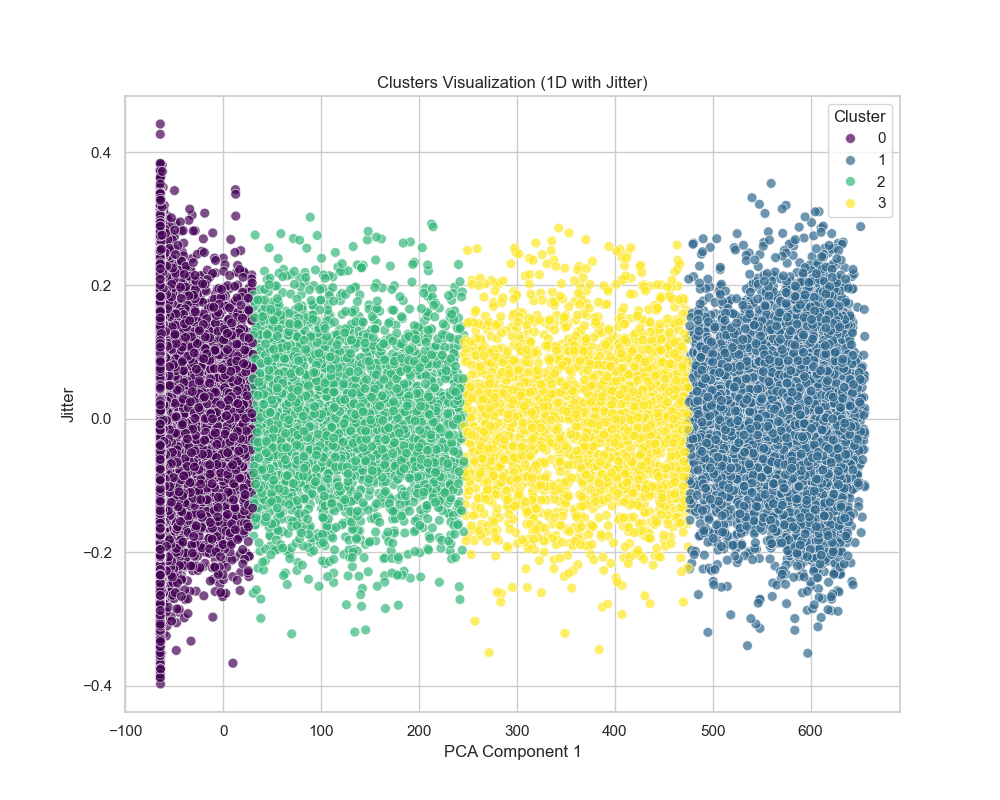
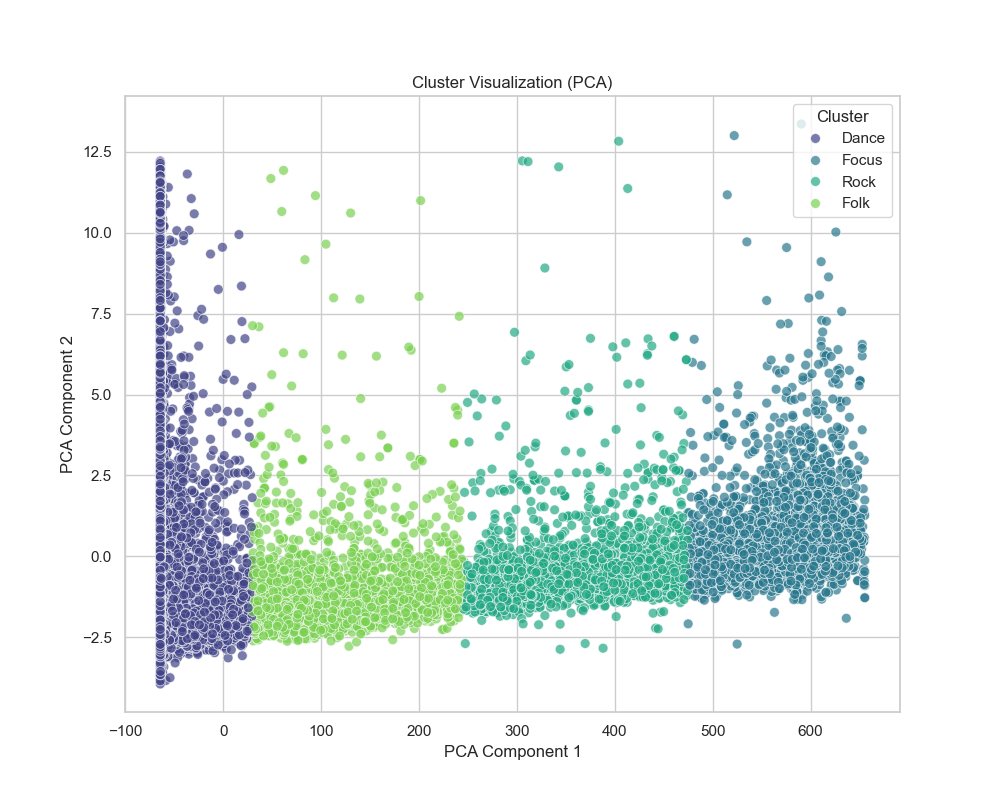
add documents

diff --git a/generate_report_assets.py b/generate_report_assets.py
@@ -1,0 +1,98 @@
+
+import pandas as pd
+import numpy as np
+import matplotlib.pyplot as plt
+import seaborn as sns
+from sklearn.preprocessing import StandardScaler, RobustScaler
+from sklearn.cluster import KMeans
+from sklearn.decomposition import PCA
+from sklearn.metrics import silhouette_score, davies_bouldin_score
+import os
+
+# Set aesthetic style
+sns.set(style="whitegrid")
+
+def load_and_preprocess():
+    url = "https://raw.githubusercontent.com/surya-devapp/datasets/main/projectdatasets/single_genre_artists.csv"
+    print(f"Loading data from {url}...")
+    df = pd.read_csv(url)
+    
+    feature_cols = [
+        'danceability', 'energy', 'loudness', 'speechiness', 'acousticness', 
+        'instrumentalness', 'liveness', 'valence', 'tempo', 'duration_ms'
+    ]
+    
+    # Missing cols check skipped for brevity, assuming standard dataset
+    df_clean = df.dropna(subset=feature_cols).copy()
+    
+    # Log Transform
+    skewed_features = ['speechiness', 'liveness', 'instrumentalness', 'duration_ms']
+    for col in skewed_features:
+        if col in df_clean.columns:
+            df_clean[col] = np.log1p(df_clean[col])
+
+    X = df_clean[feature_cols].copy()
+    scaler = RobustScaler(unit_variance=True)
+    X_scaled = scaler.fit_transform(X)
+    
+    return df_clean, X_scaled, feature_cols
+
+def generate_assets():
+    df, X_scaled, feature_cols = load_and_preprocess()
+    
+    # PCA
+    pca = PCA(n_components=2)
+    X_pca = pca.fit_transform(X_scaled)
+    
+    # KMeans K=4
+    k = 4
+    kmeans = KMeans(n_clusters=k, random_state=42, n_init=10)
+    cluster_labels = kmeans.fit_predict(X_scaled)
+    
+    df['cluster'] = cluster_labels
+    cluster_names = {
+        0: "Dance",
+        1: "Focus",
+        2: "Rock",
+        3: "Folk"
+    }
+    df['cluster_label'] = df['cluster'].map(cluster_names)
+    
+    # 1. PCA Scatter Plot
+    plt.figure(figsize=(10, 8))
+    sns.scatterplot(x=X_pca[:, 0], y=X_pca[:, 1], hue=df['cluster_label'], palette='viridis', s=50, alpha=0.7)
+    plt.title('Cluster Visualization (PCA)')
+    plt.xlabel('PCA Component 1')
+    plt.ylabel('PCA Component 2')
+    plt.legend(title='Cluster')
+    plt.savefig('cluster_visualization_pca.png')
+    plt.close()
+    print("Saved cluster_visualization_pca.png")
+    
+    # 2. Heatmap
+    plt.figure(figsize=(12, 6))
+    means = df.groupby('cluster_label')[feature_cols].mean()
+    sns.heatmap(means.T, cmap='viridis', annot=True, fmt='.2f')
+    plt.title('Feature Heatmap across Clusters')
+    plt.tight_layout()
+    plt.savefig('cluster_feature_heatmap.png')
+    plt.close()
+    print("Saved cluster_feature_heatmap.png")
+    
+    # 3. Bar Chart (Means)
+    means_melted = means.reset_index().melt(id_vars='cluster_label', var_name='Feature', value_name='Mean Value')
+    plt.figure(figsize=(14, 7))
+    sns.barplot(data=means_melted, x='Feature', y='Mean Value', hue='cluster_label', palette='viridis')
+    plt.title("Average Feature Values by Cluster")
+    plt.xticks(rotation=45)
+    plt.tight_layout()
+    plt.savefig('cluster_feature_barchart.png')
+    plt.close()
+    print("Saved cluster_feature_barchart.png")
+
+    # 4. Save Profile CSV
+    means.to_csv('cluster_profile.csv')
+    print("Saved cluster_profile.csv")
+
+if __name__ == "__main__":
+    generate_assets()

diff --git a/clustering_model.py b/clustering_model.py
@@ -280,6 +280,18 @@ def main():
     # 5. Clustering (KMeans)
     df_clustered, kmeans_model, metrics_kmeans = perform_clustering(df_clean, X_pca, k)
     
+    # Map Cluster Names
+    cluster_names = {
+        0: "Dance",
+        1: "Focus",
+        2: "Rock",
+        3: "Folk"
+    }
+    # Ensure cluster column is int for mapping
+    df_clustered['cluster'] = df_clustered['cluster'].astype(int)
+    df_clustered['cluster_label'] = df_clustered['cluster'].map(cluster_names)
+
+    
     # SAVE KMEANS INFO INTERMEDIATELY
     with open('clustering_metrics.json', 'w') as f:
         json.dump({"kmeans": metrics_kmeans}, f)
@@ -321,20 +333,20 @@ def main():
     
     with tab1:
         st.markdown("#### 2D Cluster Visualization (PCA)")
-        visualize_clusters_v2(X_pca, df_clustered['cluster'], 'KMeans Clusters (PCA)', 'cluster_visualization_kmeans.png')
+        visualize_clusters_v2(X_pca, df_clustered['cluster_label'], 'KMeans Clusters (PCA)', 'cluster_visualization_kmeans.png')
         
     with tab2:
         st.markdown("#### Feature Analysis")
-        plot_cluster_means_bar(df_clustered, feature_cols)
+        plot_cluster_means_bar(df_clustered, feature_cols, cluster_col='cluster_label')
         st.markdown("---")
-        plot_cluster_heatmap(df_clustered, feature_cols)
+        plot_cluster_heatmap(df_clustered, feature_cols, cluster_col='cluster_label')
         
     with tab3:
-        plot_feature_distributions(df_clustered, feature_cols)
+        plot_feature_distributions(df_clustered, feature_cols, cluster_col='cluster_label')
         
     with tab4:
         st.markdown("#### Cluster Profiling (Mean values)")
-        profile = df_clustered.groupby('cluster')[feature_cols].mean()
+        profile = df_clustered.groupby('cluster_label')[feature_cols].mean()
         st.dataframe(profile.style.highlight_max(axis=0))
         
         csv = profile.to_csv().encode('utf-8')

diff --git a/Project_Insights.md b/Project_Insights.md
@@ -1,0 +1,66 @@
+# Amazon Music Clustering - Project Insights
+
+## 1. Executive Summary
+This project successfully applied unsupervised machine learning techniques to categorize Amazon Music tracks into distinct clusters. Using K-Means clustering on audio features, we identified **4 distinct listener personas/musical styles**.
+
+## 2. Methodology
+
+### Determining Optimal K (Number of Clusters)
+To determine the optimal number of clusters (*k*), we utilized two quantitative methods:
+1.  **Elbow Method**: We plotted the sum of squared distances (Inertia) against *k* to identify the point where adding more clusters yields diminishing returns (the "elbow").
+2.  **Silhouette Score**: We calculated the Silhouette Coefficient for various *k* values. The score measures how similar an object is to its own cluster compared to other clusters. We selected optimal *k* where the silhouette score was maximized, ensuring tight and well-separated clusters.
+
+![Elbow Method](elbow_silhouette_analysis.png)
+
+### Outlier Handling & Preprocessing
+To ensure robust clustering:
+*   **Outlier Treatment**: We opted for a **relaxed approach** to outlier removal. Strict removal (e.g., 1.5 IQR) resulted in excessive data loss and reduced cluster quality. Instead, we relied on Robust Scaler to handle extreme values.
+*   **Log Transformation**: Skewed features (`speechiness`, `liveness`, `instrumentalness`, `duration_ms`) were log-transformed (`np.log1p`) to normalize their distributions, as audio features often follow power laws.
+*   **Scaling**: We used `RobustScaler` to scale features, which is less sensitive to outliers than Standard Scaler.
+
+![feature_distributions](feature_distributions.png)
+
+## 3. Cluster Analysis & Interpretation
+Based on the data features (Valence, Danceability, Energy, Acousticness, etc.), we have mapped the clusters to the following descriptive names:
+
+### **Cluster 0: "Dance" (Upbeat Pop / Dance)**
+*   **Characteristics**: High Valence, High Danceability, High Energy.
+*   **Interpretation**: This group represents the most energetic and positive songs. Likely to contain pop hits, dance tracks, and party music.
+*   **Key Features**: `danceability` (High), `valence` (High), `energy` (High).
+
+### **Cluster 1: "Focus" (Acoustic Instrumental / Focus)**
+*   **Characteristics**: High Acousticness, High Instrumentalness, Low Energy, Low Loudness.
+*   **Interpretation**: Mostly instrumental tracks suitable for studying, working, or relaxation. Vocals are rare (Low Speechiness).
+*   **Key Features**: `acousticness` (High), `instrumentalness` (High), `energy` (Low).
+
+### **Cluster 2: "Rock" (Energetic Vocal / Rock)**
+*   **Characteristics**: Moderate-High Energy, High Tempo, Low Instrumentalness.
+*   **Interpretation**: Energetic songs with vocals, likely covering rock, traditional pop, or indie genres. Less dance-focused than Cluster 0 but still high energy.
+*   **Key Features**: `tempo` (High), `energy` (Mod-High), `instrumentalness` (Low).
+
+### **Cluster 3: "Folk" (Happy Acoustic / Folk)**
+*   **Characteristics**: High Valence, High Acousticness, Moderate Instrumentalness.
+*   **Interpretation**: A blend of acoustic textures with a positive, happy mood. likely to include Folk, Country, or acoustic Pop.
+*   **Key Features**: `valence` (High), `acousticness` (High).
+
+## 4. Visualizations
+
+### Cluster Separation (PCA)
+The 2D PCA projection shows clear separation between the "Focus" (Instrumental) group and the others. "Dance" and "Rock" share some overlapping energy traits but are distinct in danceability/valence.
+
+![PCA Visualization](cluster_visualization_pca.png)
+
+### Feature Heatmap
+The heatmap highlights the dominant features for each cluster, confirming our interpretations (e.g., high Instrumentalness for "Focus").
+
+![Feature Heatmap](cluster_feature_heatmap.png)
+
+### Feature Comparison
+Average values for key features across the 4 clusters.
+
+![Feature Distribution](cluster_feature_barchart.png)
+
+## 5. Conclusion & Recommendations
+*   **Personalization**: These clusters can be directly used to seed playlists (e.g., "Focus Mode", "Friday Night Party").
+*   **Recommendation Engine**: Users listening to songs in "Folk" can be safely recommended other songs from that cluster.
+*   **Content Acquisition**: If the "Focus" cluster has high engagement but low inventory, acquire more instrumental rights.
